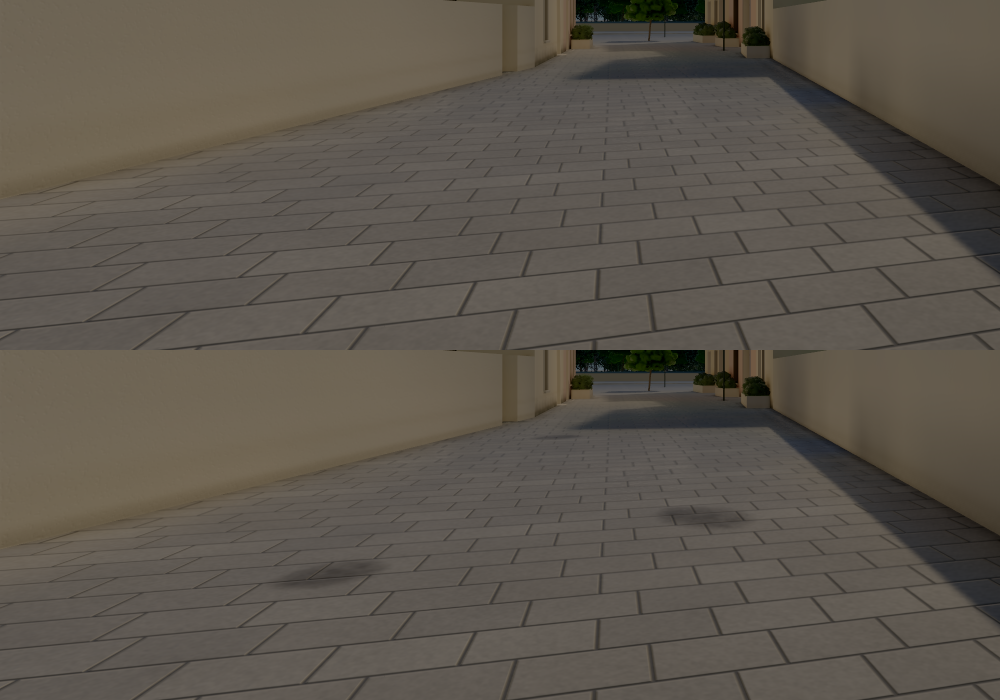
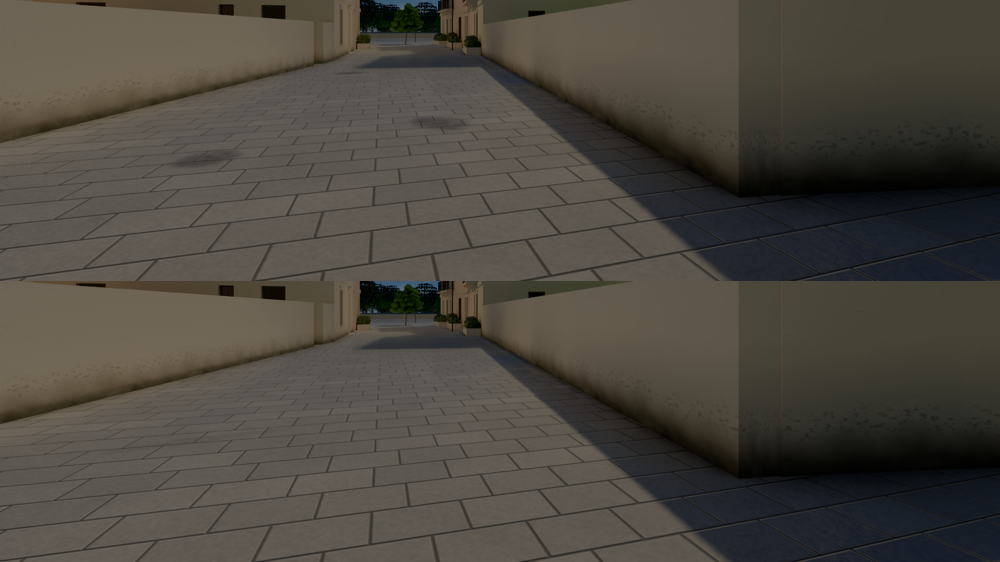
Paving stains reworked: faint streaky dirt, not round shadows (#304)
The owner: "what are the round shadow spots on the ground?" Round, dark and
even, the paving stains read as shadows. A stain is now a faint, warm
smudge of dirt broken into irregular patches and streaks along its length
(decal_stain: alpha at most 0.25, a warm brown, twice as long as wide,
1.4-3.2 m by 0.7-1.6 m), one to 90 m2 of paving instead of 40.

Checks: the gate; the map check accepted (main 0.011, garden 0.009 mean
LDR-FLIP: the old spots gone); the garden lane before and after in
reports/2026-10-19/village-paving-stains.png.

diff --git a/crates/forge-render/src/textures.rs b/crates/forge-render/src/textures.rs
@@ -1644,21 +1644,24 @@ pub fn decal_grime(seed: u64, size: u32) -> TextureData {
     })
 }
 
-/// A stain on a paving (D-074): a soft, ragged patch of grime where water stood and dried, its
-/// rim a little darker, faint and mottled; a stamp clamped at its edges, gone before them.
+/// Wear on a paving (D-074): a faint, warm smudge of dirt broken into irregular patches and
+/// streaks along `u` (where feet and water carried it), mottled finely, none of it round; a stamp
+/// clamped at its edges, gone before them. Round, dark, even patches read as shadows (the owner,
+/// 2026-10-19).
 pub fn decal_stain(seed: u64, size: u32) -> TextureData {
     kept("texture-decal-stain", &(seed, size), || {
         let texels = grid(size, |u, v| {
-            // 0 in the middle, 1 at the middle of an edge, ragged by broad noise.
-            let r = ((u - 0.5).powi(2) + (v - 0.5).powi(2)).sqrt() * 2.0;
-            let reach = r + 0.4 * (fbm(seed, u, v, 3, 4) - 0.5);
-            let patch = 1.0 - smoothstep(0.35, 0.75, reach);
-            let rim = smoothstep(0.45, 0.68, reach) * patch;
-            let mottle = fbm(seed ^ 0x57A, u, v, 12, 3);
-            let alpha = ((patch * (0.32 + 0.3 * mottle) + rim * 0.15)
-                * (1.0 - smoothstep(0.85, 1.0, r)))
-            .clamp(0.0, 0.7);
-            [0.09, 0.08, 0.065, alpha]
+            // An ellipse twice as long along u as across, 0 in the middle, 1 at its rim.
+            let r = ((u - 0.5).powi(2) + (2.0 * (v - 0.5)).powi(2)).sqrt() * 2.0;
+            // Patches: broad noise over a threshold that falls towards the rim, so the smudge
+            // breaks into islands with streaks along u rather than one blob.
+            let broad = fbm(seed, u, v * 0.5, 4, 4);
+            let streaks = fbm(seed ^ 0x37C, u * 0.25, v, 16, 2);
+            let patches = smoothstep(0.5, 0.7, 0.55 * broad + 0.25 * streaks + 0.45 * (1.0 - r));
+            let fine = fbm(seed ^ 0x57A, u, v, 32, 3);
+            let alpha =
+                (patches * (0.08 + 0.14 * fine) * (1.0 - smoothstep(0.8, 1.0, r))).clamp(0.0, 0.25);
+            [0.17, 0.125, 0.08, alpha]
         });
         premultiplied_texture("decal stain", size, texels)
     })

diff --git a/demos/city-plan/src/lib.rs b/demos/city-plan/src/lib.rs
@@ -247,8 +247,8 @@ fn world(size: f64, p: DVec2, height: f64) -> Vec3 {
     )
 }
 
-/// Paved ground per stain on the paving (D-074), m².
-const STAIN_EVERY: f64 = 40.0;
+/// Paved ground per stain on the paving (D-074), m²: few, so that they read as wear here and there.
+const STAIN_EVERY: f64 = 90.0;
 /// Paved ground per crack on the paving (D-074), m².
 const CRACKS_EVERY: f64 = 150.0;
 
@@ -312,7 +312,7 @@ fn paving_marks(
                 }
                 let p = t[0] + (t[1] - t[0]) * a + (t[2] - t[0]) * b;
                 let (half_x, half_z) = if kind == 1 {
-                    (0.35 + 0.6 * h(3), 0.3 + 0.5 * h(4))
+                    (0.7 + 0.9 * h(3), 0.35 + 0.45 * h(4))
                 } else {
                     (0.4 + 0.4 * h(3), 0.4 + 0.4 * h(3))
                 };

diff --git a/docs/demos/city-plan.md b/docs/demos/city-plan.md
@@ -1295,12 +1295,13 @@ phase of its own. `--no-decals` leaves it out: `shading/standard` +0.026 ms on a
 +0.035 ms over the junction (`docs/PROFILE.md`). Capture: `reports/2026-10-19/village-wall-grime.png`
 (above without, below with).
 
-The paving carries stains and cracks the same way: stamps of a ragged damp patch and of a few
-cracks, one stain to 40 m² and one crack to 150 m² of the paved walking ground within the detail,
+The paving carries stains and cracks the same way: stamps of a faint, warm smudge of dirt broken
+into streaky patches (round, dark stains read as shadows: the owner, 2026-10-19) and of a few
+cracks, one stain to 90 m² and one crack to 150 m² of the paved walking ground within the detail,
 each at a turn and a size of its own and wholly on the paving, marking only the faces that look
-up. With the grime, the village holds 1 210 decals: `shading/standard` +0.05 ms on the house front
-and +0.065 ms over the junction. Capture: `reports/2026-10-19/village-paving-stains.png` (the
-garden lane, above without, below with).
+up. `shading/standard` with all the decals: +0.05 ms on the house front and +0.065 ms over the
+junction. Capture: `reports/2026-10-19/village-paving-stains.png` (the garden lane: the first,
+round stains above, the reworked ones below).
 
 ### Local exposure (D-067, #275)
 

diff --git a/docs/DECISIONS.md b/docs/DECISIONS.md
@@ -6513,6 +6513,12 @@ the decals (`--no-decals`) and with them: 0.816 → 0.863–0.869 ms on the hous
 0.968–0.971 ms over the junction (two runs each way). In motion they add no shimmer: the
 garden lane dollied at 1 m/s under DLAA, each frame's change against an `--ssaa` run's, differs
 on 6.47 % of the pixels with them and 6.45 % without (20 pairs, the lane's foliage the rest).
+**The stains reworked** (the owner, the same day: "what are the round shadow spots on the
+ground?"): round, dark and even, the stains read as shadows. Now a stain is a faint, warm smudge
+of dirt broken into irregular patches and streaks along its length (`decal_stain`: alpha at most
+0.25, twice as long as wide, 1.4–3.2 m by 0.7–1.6 m), one to 90 m² of paving instead of 40. The
+garden lane's two spots are gone; the paving only varies a little. Capture:
+`reports/2026-10-19/village-paving-stains.png` (the old stains above, the new below).
 
 **Row decals** (2026-10-19): a kind with a `row` (`DecalKind::row`) takes only its texture's alpha,
 a mask over that material row: where it masks, the surface takes the row's colour and normal
